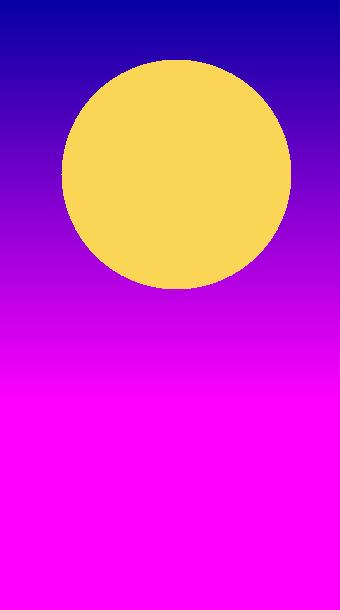
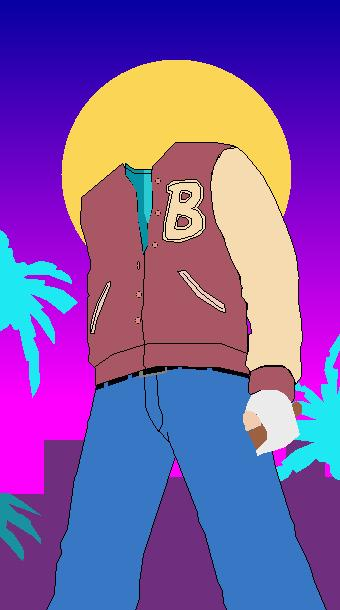
mano con martillo beta, se puede guardar la imagen

diff --git a/src/graficacion/jacket/manomartillo.java b/src/graficacion/jacket/manomartillo.java
@@ -1,0 +1,71 @@
+package graficacion.jacket;
+import java.awt.Color;
+import javax.swing.JPanel;
+import java.awt.GradientPaint;
+import java.awt.Graphics;
+import java.awt.Graphics2D;
+/**
+ *
+ * @author Maxcel Center
+ */
+public class manomartillo  extends JPanel {
+    public manomartillo()
+    {
+        
+    }
+    public void paint(Graphics g){
+        Graphics2D g2d=(Graphics2D)g;
+        Color blancovenda = new Color(235,235,235);
+        Color mano = new Color(243,204,175);
+        Color mangomartillo = new Color(156,97,65);
+        Color cabezamartillo = new Color(179,176,204);
+        
+        //mango del martillo
+        int [] mangox = {
+        247,250,296,299,301,302,302,302,256,   
+        };
+        int [] mangoy = {
+        431,431,401,402,404,406,411,412,450,
+        };
+        g.setColor(mangomartillo);
+        g.fillPolygon(mangox,mangoy,9);
+        
+        //venda
+        int manox [] = {
+            251,260,261,277,281,284,290,299,285,273,
+            264,257,256,267,267,264,262,259,257,253,
+            250,245,247
+        };
+        int manoy [] = {
+            395,391,390,390,392,394,401,434,446,450,
+            452,455,450,439,431,426,423,418,414,412,
+            411,411,403
+        };
+        g.setColor(blancovenda);
+        g.fillPolygon(manox,manoy,23);
+        g.drawPolygon(manox, manoy,23);
+        
+        //dedo
+        int[] dedox = {
+        246,250,254,256,257,259,261,261,247,245,244,243,
+        243
+        };
+        int [] dedoy = {
+        410,411,412,414,415,418,422,425,431,429,424,422,
+        414
+        };
+        g.setColor(mano);
+        g.fillPolygon(dedox, dedoy,13);
+        
+        //cabeza del martillo
+        int [] cabezax = {
+          246,242,240,236,233,231,229,225,217,217,216,215,  
+        };
+        int [] cabezay = {
+          429,428,424,416,409,402,386,385,389,408,401,390,
+        };
+        
+        
+        
+    }
+}

diff --git a/src/graficacion/jacket/GraficacionJacket.java b/src/graficacion/jacket/GraficacionJacket.java
@@ -12,6 +12,7 @@ import java.awt.event.*;
 
 import java.awt.Graphics;
 import java.awt.image.BufferedImage;
+import java.beans.PropertyChangeListener;
 import java.io.File;
 import java.io.IOException;
 
@@ -41,7 +42,11 @@ public class GraficacionJacket extends JFrame{
         Torso torsodibujo = new Torso();
         Pantalon pantalondibujo = new Pantalon();
         brazos brazosdibujo = new brazos();
+        manomartillo manoderecha = new manomartillo();
 //el que se muestra primero va arriba,lo que seria la mascara, al final debe estar el degradado
+        manoderecha.setBounds(0, 0, 350, 650);
+        window.getContentPane().add(manoderecha);
+
         brazosdibujo.setBounds(0, 0, 350, 650);
         window.getContentPane().add(brazosdibujo);
         
@@ -63,13 +68,21 @@ public class GraficacionJacket extends JFrame{
         degradado.setBounds(0, 0, 350, 650);
         window.getContentPane().add(degradado);
         
+        JButton boton = new JButton();
+        boton.setText("Guardar");
+        boton.addActionListener((ActionEvent e) -> {
+            guardar(window);
+        });
+        boton.setLocation(400, 300);
+        boton.setSize(10,10);
+        window.add(boton);
         window.setVisible(true);
-        window.setSize(356,649);  
+        window.setSize(420,649);  
         
     }
     
     
-    public void guardar(ventana ven)
+    public static void guardar(ventana ven)
     {
         File fichero = new File("foto.jpg");
 		String formato = "jpg";
